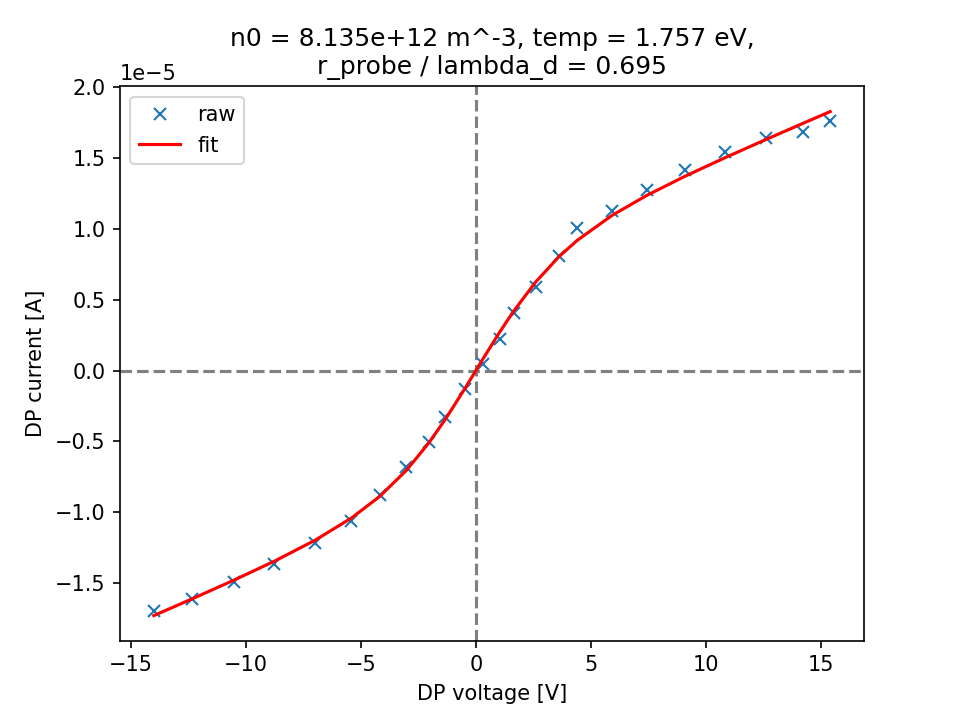
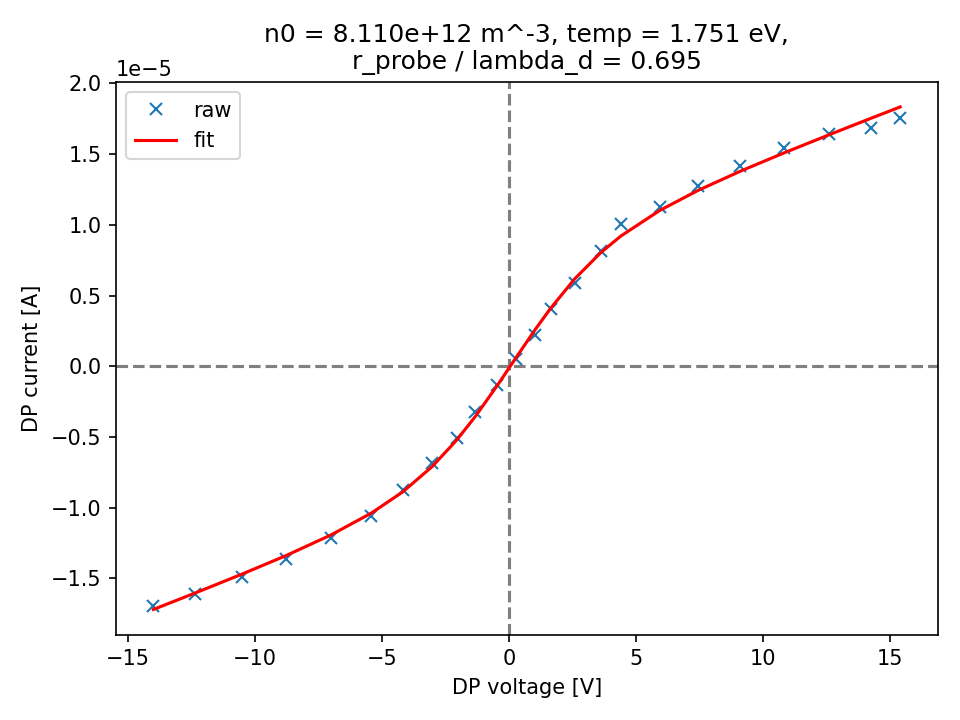
Allowed for optional V and I offsets.

diff --git a/double_langmuir_probe_analysis.py b/double_langmuir_probe_analysis.py
@@ -34,7 +34,8 @@ def analyze_DP_data(	DP_data,
 						plot=False,
 						filename=None, 
 						plotall=False,
-						verbose=False):
+						verbose=False,
+						allow_for_V_and_I_offsets=True):
 	
 	"""
 	Analyzes a Double Langmuir Probe (DP) IV trace and provides density and temperature.  
@@ -107,13 +108,15 @@ def analyze_DP_data(	DP_data,
 
 	def _basic_DP_model(Vp, n0, xi, Voffset, Ioffset):
 		""" eq. 9 in Beal - basic DP model without advanced sheath expansion terms """
-		# return _I0(n0, xi) * 0.61 * _np.sqrt(2 * _np.pi) * _np.tanh((Vp - 0) / (2 * xi)) + 0
-		return _I0(n0, xi) * 0.61 * _np.sqrt(2 * _np.pi) * _np.tanh((Vp - Voffset) / (2 * xi)) + Ioffset
+		if allow_for_V_and_I_offsets==False:
+			return _I0(n0, xi) * 0.61 * _np.sqrt(2 * _np.pi) * _np.tanh((Vp - 0) / (2 * xi)) + 0
+		else:
+			return _I0(n0, xi) * 0.61 * _np.sqrt(2 * _np.pi) * _np.tanh((Vp - Voffset) / (2 * xi)) + Ioffset
 
 	def _expanded_DP_model(Vp, n0, xi, Voffset, Ioffset, a, b, V1):
 		""" eq. 7 in Beal - advanced DP model with advanced sheath expansion terms """
-		return _I0(n0, xi) * (a * (-V1 / xi)**b * _np.tanh((Vp - 0) / (2 * xi)) + (a * (-V1 / xi)**b - a * (-(V1 + Vp - 0) / xi)**b) / (_np.exp((Vp - 0) / xi) + 1)) + 0
-		# return _I0(n0, xi) * (a * (-V1 / xi)**b * _np.tanh((Vp - Voffset) / (2 * xi)) + (a * (-V1 / xi)**b - a * (-(V1 + Vp - Voffset) / xi)**b) / (_np.exp((Vp - Voffset) / xi) + 1)) + Ioffset
+		# return _I0(n0, xi) * (a * (-V1 / xi)**b * _np.tanh((Vp - 0) / (2 * xi)) + (a * (-V1 / xi)**b - a * (-(V1 + Vp - 0) / xi)**b) / (_np.exp((Vp - 0) / xi) + 1)) + 0
+		return _I0(n0, xi) * (a * (-V1 / xi)**b * _np.tanh((Vp - Voffset) / (2 * xi)) + (a * (-V1 / xi)**b - a * (-(V1 + Vp - Voffset) / xi)**b) / (_np.exp((Vp - Voffset) / xi) + 1)) + Ioffset
 
 	def fit_basic_DP_model(DP_data, guesses, plot=False):
 		""" fits to eq. 9 in Beal """
@@ -247,6 +250,7 @@ def analyze_DP_data(	DP_data,
 			# title = 'n0 = %.3e m^-3, temp = %.3f eV,\nr_probe = %.3e m, lambda_d = %.3e m' % (density, temp, probe_radius, lambda_d)
 			title = 'n0 = %.3e m^-3, temp = %.3f eV,\nr_probe / lambda_d = %.3f' % (density, temp, probe_radius / lambda_d)
 			ax.set_title(title)
+			fig.set_tight_layout(True)
 			
 			if type(filename) is not type(None):
 				fig.savefig(filename, dpi=150)
